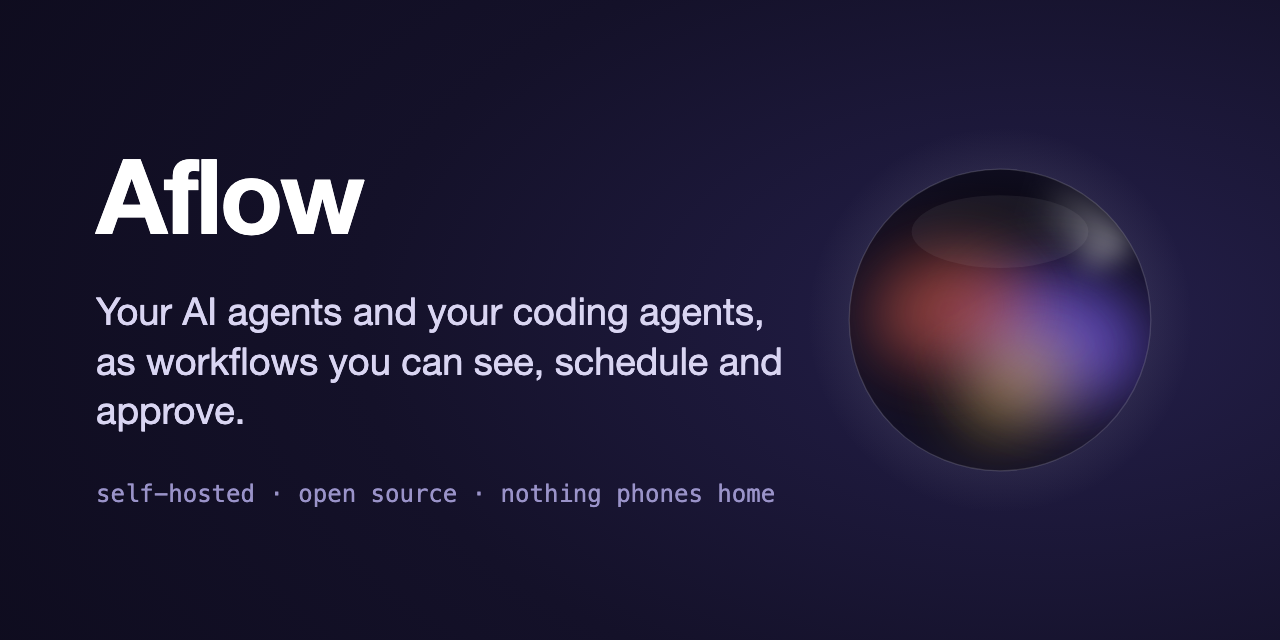
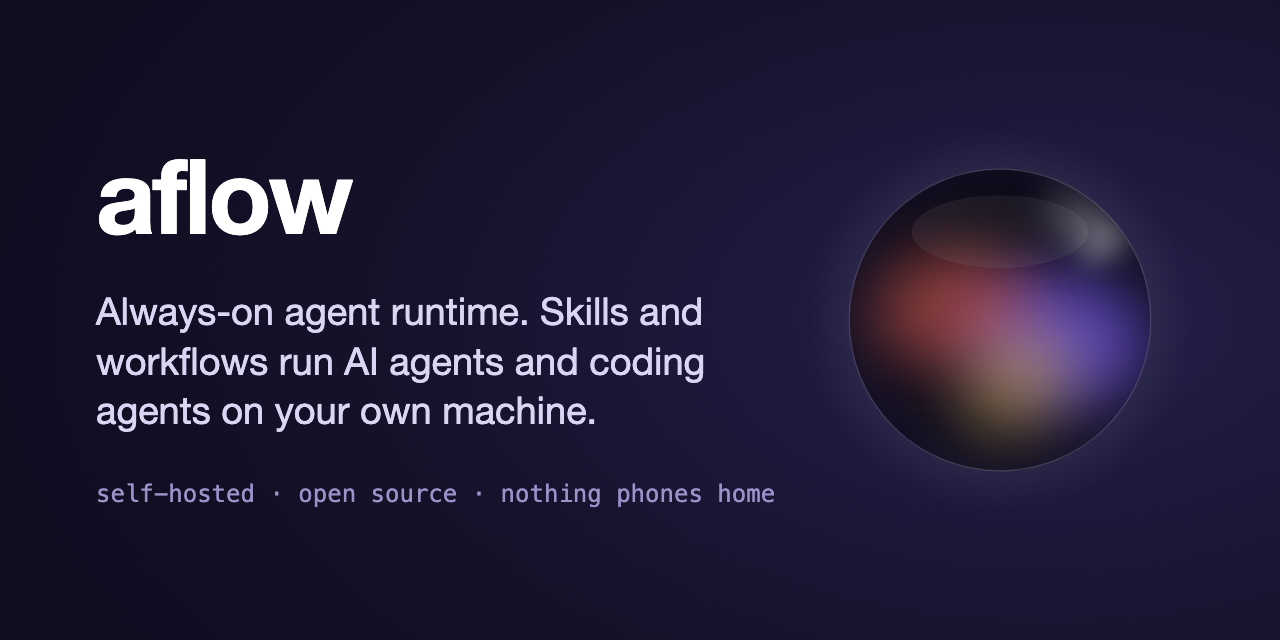
docs(readme): the opening says what Aflow is — an always-on agent runtime
The opening named workflows a person can see and approve, and said nothing of
work continuing unattended or of the agent's browser, which is what the recent
plans build and what the repository's topics and description now say. It leads
with the runtime, lists schedules and the browser first under What it does, and
states the bound on always-on for a local install: background work runs while
Aflow and the computer do. The social card carries the same line.

Changed region(s): [[0.0625, 0.4688, 0.625, 0.5938], [0.0625, 0.25, 0.2812, 0.375], [0.0938, 0.625, 0.4688, 0.6875]]

diff --git a/README.md b/README.md
@@ -1,15 +1,18 @@
 # Aflow
 
-**Your AI agents — and your coding agents — as workflows you can see, schedule and
-approve, on your own machine.**
+**An always-on agent runtime for your own machine. Skills and workflows run AI
+agents and coding agents such as Claude Code on a schedule, on a trigger or from a
+conversation.**
 
-Aflow runs agents that call your APIs, run code in sandboxes, keep memory, and
-pause for your approval. It can also hand work to the coding agent you already
-use — Claude Code or OpenCode, with Codex next — as one step among the rest. Every
-model decision and every tool call is a step you can inspect.
+Aflow keeps agents working while nobody is at the keyboard. An agent calls your
+APIs, uses a browser on your machine, runs code in sandboxes, keeps memory, and
+pauses for your approval. It hands work to the coding agent you already use —
+Claude Code or OpenCode, with Codex next — as one step among the rest. Every model
+decision and every tool call is a step you can inspect.
 
 This repository is the **local edition**: one owner, on infrastructure you control.
-No account, no licence server, and nothing phones home.
+No account, no licence server, and nothing phones home. Background work continues
+for as long as Aflow and the computer are running.
 
 > **Status:** active development. Interfaces and schemas change without deprecation
 > shims.
@@ -85,6 +88,11 @@ Setting up a harness is in the operator guide under
 
 ## What it does
 
+- **Always on.** Cron schedules, webhooks, and runs that start when another
+  finishes keep work going between conversations.
+- **A browser of its own.** An agent opens pages in Chrome on the paired machine,
+  signed in to the sites you choose, and each profile sets whether it acts or asks
+  first.
 - **Agents that delegate.** Agents choose their tools, hand work to sub-agents,
   and pick up where they left off — on OpenAI, Anthropic, Google or OpenRouter,
   with the cost of every step.
@@ -101,8 +109,6 @@ Setting up a harness is in the operator guide under
   risky API write waits until you approve the exact request that will be sent.
 - **Interfaces agents build.** Generated views and stateful applets, validated
   before they render.
-- **Scheduled and triggered.** Cron schedules, webhooks, and runs that start when
-  another finishes.
 
 Roughly 180 operations across 20+ step types. Browse them under **Catalog** in the
 app, or run `yarn catalog:export`.
